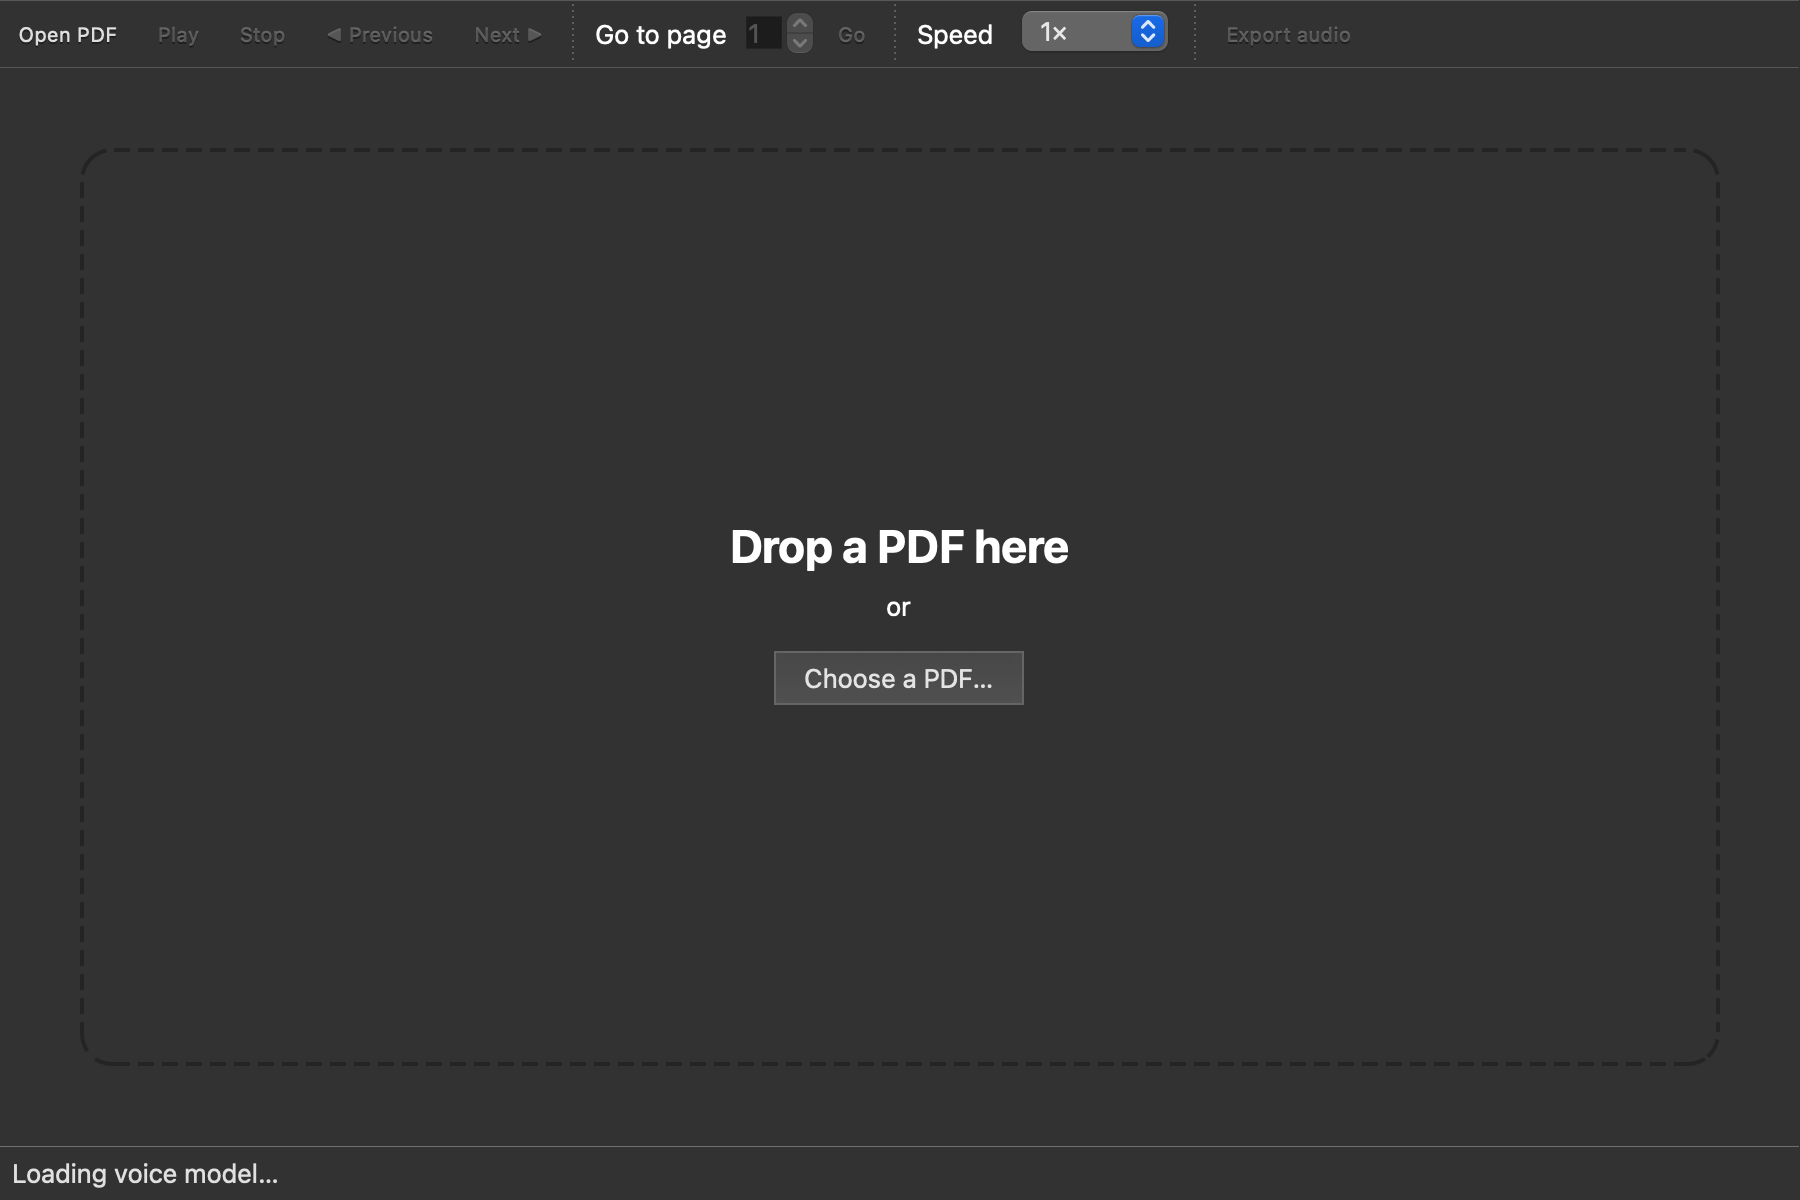
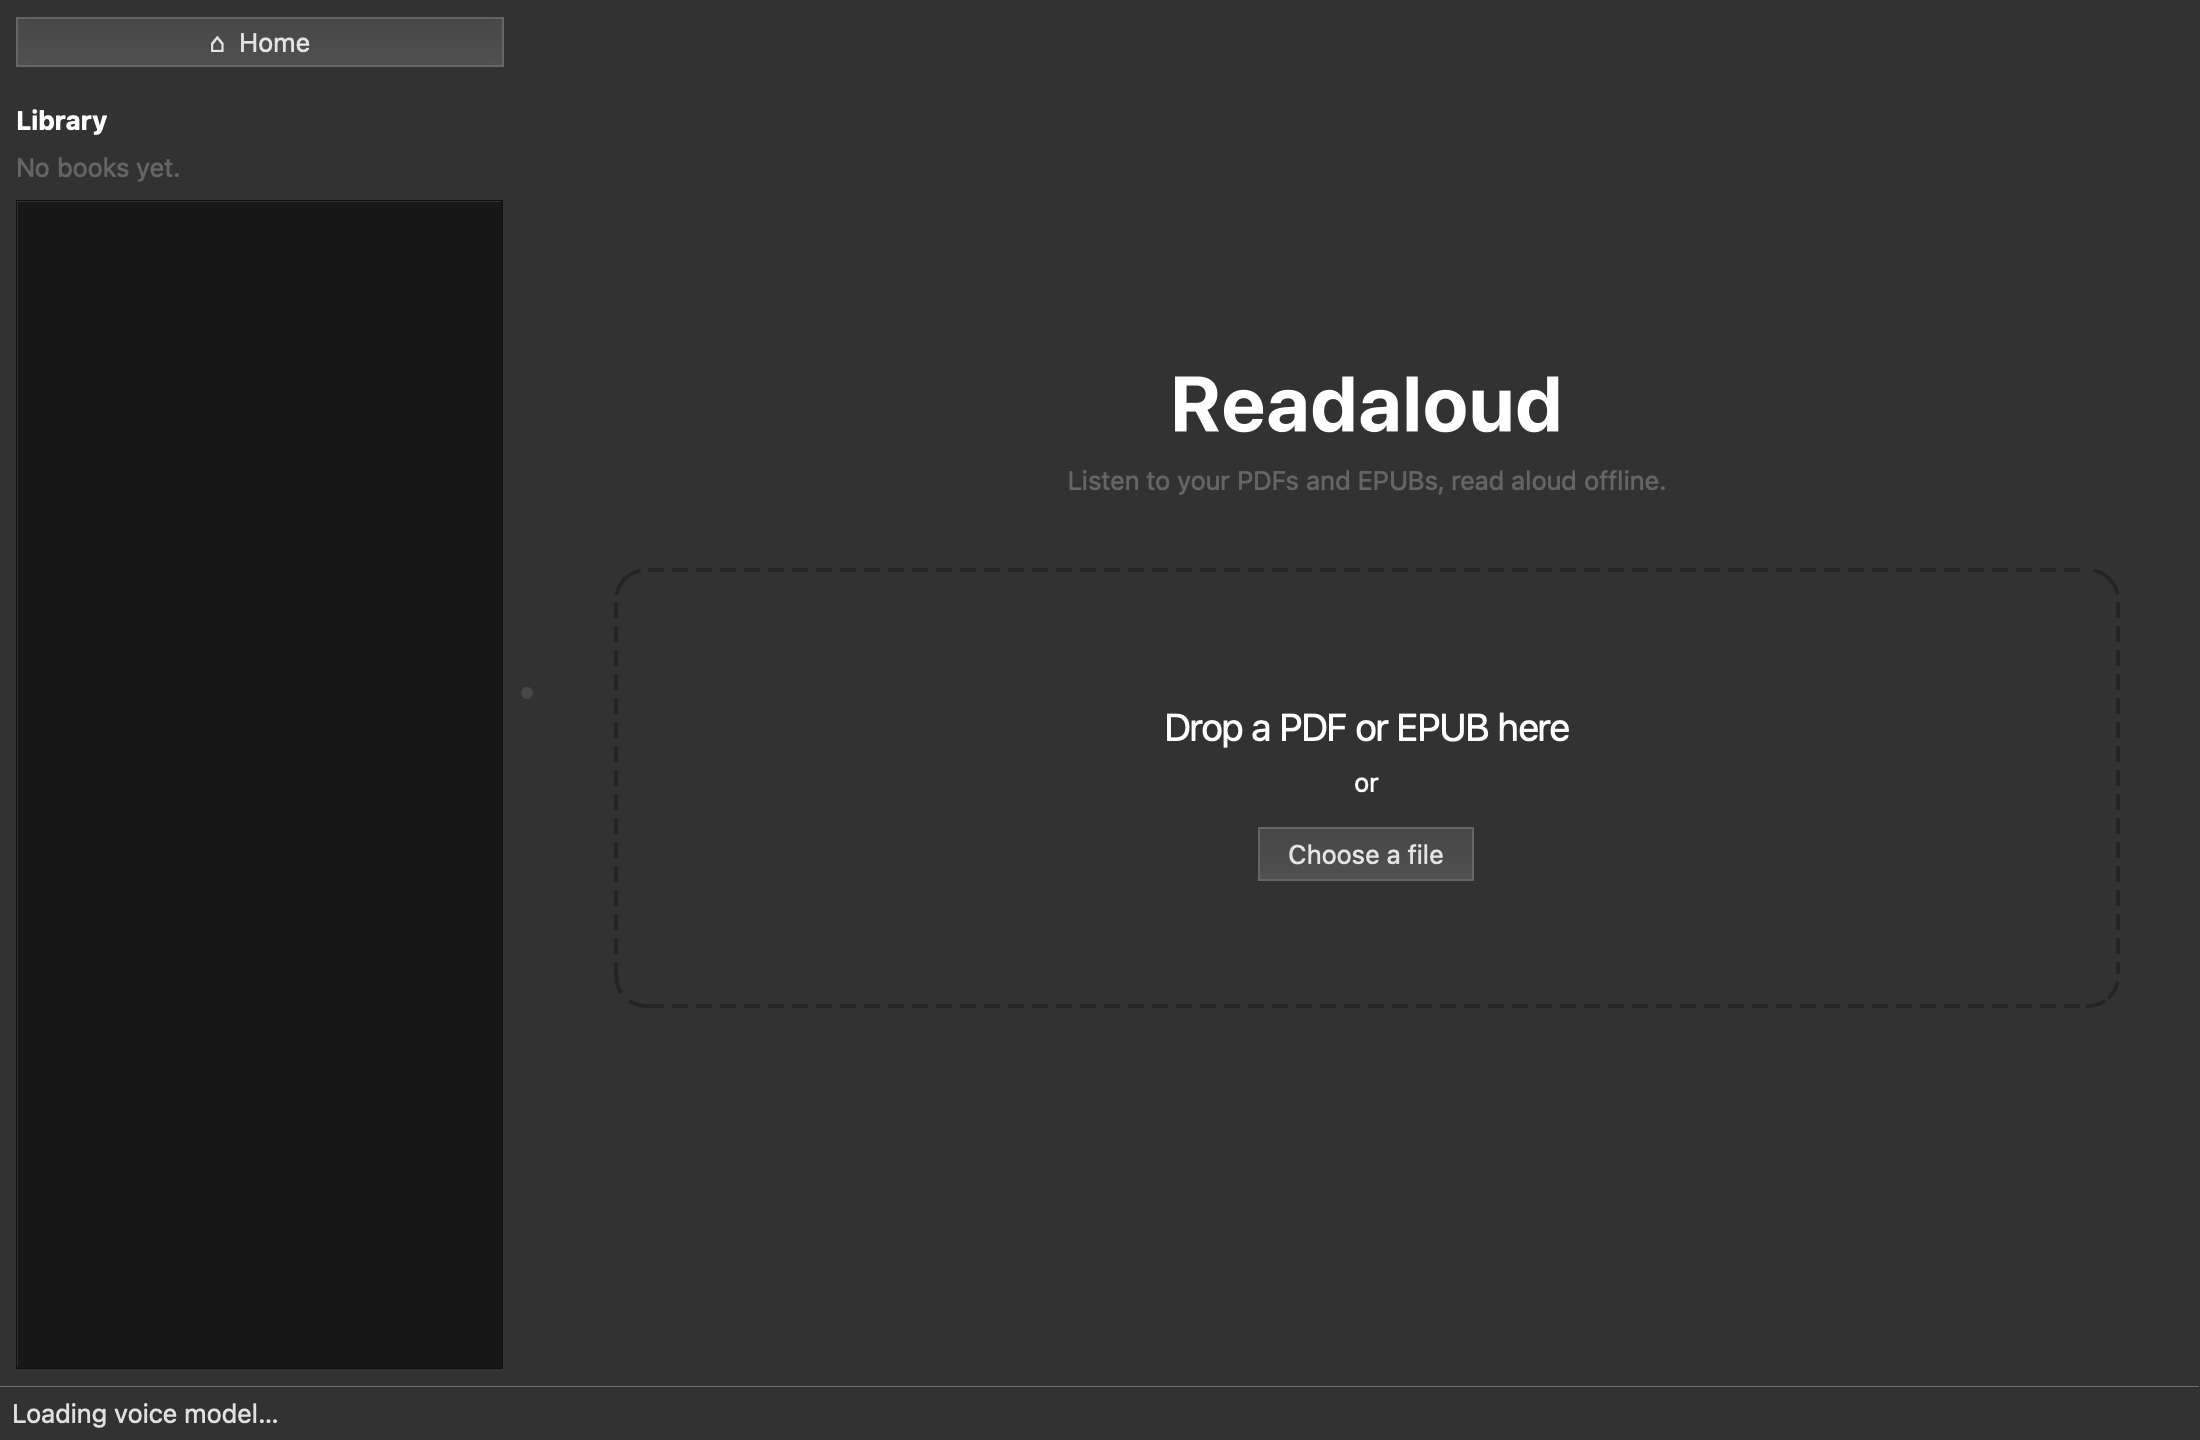
Update README for EPUB, library, home page and click-to-jump
Documents supported formats, where the library lives on each OS, the
resume-data migration and new limitations; refreshes the screenshot and
ignores SQLite library files.

diff --git a/README.md b/README.md
@@ -1,19 +1,27 @@
 # Readaloud
 
-A desktop app that reads PDFs aloud like an audiobook, using a local, offline text-to-speech engine.
+A desktop app that reads PDF and EPUB books aloud like an audiobook, using a local, offline text-to-speech engine.
 
-![Readaloud start screen](docs/screenshot.png)
+![Readaloud home page with the library sidebar](docs/screenshot.png)
 
 ## Features
 
-- **Open a PDF** by dragging it onto the window, with a file picker, or by passing a path on the command line.
-- **Clean text extraction** page by page: running headers, footers and page numbers are removed, words split across lines are rejoined, and ligatures (ﬁ, ﬂ) are expanded.
-- **Scanned pages are detected.** A page with no text layer gets a clear message and is skipped (there is no OCR).
+- **PDF and EPUB.** PDFs are read page by page. EPUBs are read chapter by chapter in spine order, with title and author taken from the book's metadata.
+- **Home page and library.** The home page shows a drop area and a **Choose a file** button. Every book you add appears in a sidebar with its progress (for example "Page 40 of 210" or "Ch 3 of 12"). Click a book to continue at the exact sentence where you stopped.
+- **Click any sentence** to stop the current audio and start reading from there. The sentence being read is highlighted and kept in view.
+- **Clean text.** PDF running headers, footers and page numbers are removed, words split across lines are rejoined, and ligatures (ﬁ, ﬂ) are expanded. EPUB navigation, scripts, styles, images and page-break markers are stripped.
+- **Careful sentence splitting** that does not break on abbreviations (Mr., Dr., e.g., i.e.), initials, decimals (3.14) or mid-sentence ellipses.
+- **Scanned pages and image-only chapters are detected** and skipped with a clear message (there is no OCR).
 - **Offline speech** with [Kokoro](https://github.com/hexgrad/kokoro), an 82M-parameter neural TTS model that runs locally.
-- **Playback controls:** play, pause, resume, stop, previous/next page, jump to a page and speed (0.5× to 2×).
-- **Follow along:** the current page number is shown and the sentence being read is highlighted.
-- **Export to MP3 or WAV** for the whole PDF or a page range. Export runs in the background with a progress bar and a cancel button, and the app stays usable meanwhile.
-- **Resume where you left off:** the last page reached is saved for each PDF, and the app offers to resume from it when you reopen the file.
+- **Playback controls:** play, pause, resume, stop, previous/next page or chapter, jump to a page or chapter, and speed (0.5× to 2×).
+- **Export to MP3 or WAV** for the whole book or a range of pages or chapters. Export runs in the background with a progress bar and a cancel button, and the app stays usable meanwhile.
+
+## Supported formats
+
+| Format | Unit | Notes |
+| --- | --- | --- |
+| PDF (`.pdf`) | Page | Needs a text layer; scanned pages are skipped. Password-protected PDFs are not supported. |
+| EPUB (`.epub`, EPUB 2 and 3) | Chapter (one per spine document) | DRM-protected EPUBs are detected and rejected with a message. Embedded-font obfuscation is fine. |
 
 ## Requirements
 
@@ -60,15 +68,17 @@ readaloud                 # or: python -m readaloud
 readaloud path/to/book.pdf
 ```
 
-The window opens on a start screen: drag a PDF onto it or click **Choose a PDF…**. The first launch takes a little longer while the voice model loads; the status bar says when it is ready.
+The window opens on the home page: drag a PDF or EPUB onto it or click **Choose a file**. The book is added to the library sidebar and opened. Click a sentence to start reading from it. The first launch takes a little longer while the voice model loads; the status bar says when it is ready.
+
+Adding a book that is already in the library (same contents, any file name) opens the existing entry. To remove a book, click its **✕** or right-click it and choose **Remove from library…**. This only removes Readaloud's copy and your reading position; your original file is never touched.
 
 Set `READALOUD_LOG_LEVEL=INFO` (or `DEBUG`) to see diagnostic logging in the terminal.
 
 | Control | Shortcut |
 | --- | --- |
-| Open PDF | Ctrl/Cmd+O |
+| Open a book | Ctrl/Cmd+O |
 | Play / Pause / Resume | Space |
-| Previous / Next page | Page Up / Page Down |
+| Previous / Next page or chapter | Page Up / Page Down |
 | Export audio | Ctrl/Cmd+E |
 
 Speed changes take effect from the next sentence.
@@ -83,16 +93,17 @@ python -m spacy download en_core_web_sm   # bundled so the app never needs pip
 pyinstaller --noconfirm packaging/readaloud.spec
 ```
 
-The app appears at `dist/Readaloud.app` (about 1 GB, mostly PyTorch). Drag it into your Applications folder, then open it and drop a PDF onto the window. The voice model is still downloaded on first launch and cached in your user folder. MP3 export uses the system `ffmpeg` (Homebrew's is found automatically).
+The app appears at `dist/Readaloud.app` (about 1 GB, mostly PyTorch). Drag it into your Applications folder, then open it and drop a PDF or EPUB onto the window. The voice model is still downloaded on first launch and cached in your user folder. MP3 export uses the system `ffmpeg` (Homebrew's is found automatically).
 
 The same spec builds a `dist/Readaloud/` folder app on Windows and Linux. That build is untested.
 
 ### Command line
 
-Synthesize a single page to a WAV file:
+Synthesize a single page (PDF) or chapter (EPUB) to a WAV file:
 
 ```bash
 readaloud-cli path/to/book.pdf --page 3 --out page3.wav --speed 1.25
+readaloud-cli path/to/book.epub --chapter 2 --out chapter2.wav
 ```
 
 ### Run the tests
@@ -101,7 +112,7 @@ readaloud-cli path/to/book.pdf --page 3 --out page3.wav --speed 1.25
 pytest
 ```
 
-The tests build their own small PDFs at runtime and use a fake TTS engine, so they run in under a second and need neither the model nor any PDF files.
+The tests build their own small PDFs and EPUBs at runtime and use a fake TTS engine and a temporary library folder, so they run in about a second and need neither the model nor any of your books.
 
 ## Project structure
 
@@ -109,15 +120,20 @@ The tests build their own small PDFs at runtime and use a fake TTS engine, so th
 readaloud/
 ├── src/readaloud/
 │   ├── __main__.py       # GUI entry point (readaloud)
-│   ├── cli.py            # single-page CLI (readaloud-cli)
-│   ├── pdf_extract.py    # PyMuPDF extraction, header/footer/page-number cleaning
-│   ├── tts.py            # Kokoro engine wrapper, sentence splitting
-│   ├── playback.py       # QAudioSink playback, background synthesis, page logic
-│   ├── export.py         # page-range logic, MP3/WAV export
-│   ├── export_dialog.py  # export range dialog and worker thread
-│   ├── state.py          # per-PDF resume positions
-│   └── gui.py            # main window (widgets and wiring only)
-├── tests/                # pytest suite; generates its own PDFs
+│   ├── cli.py            # single page/chapter CLI (readaloud-cli)
+│   ├── document.py       # shared Document/Section model, load_document()
+│   ├── pdf_extract.py    # PDF loader: PyMuPDF, header/footer/page-number cleaning
+│   ├── epub_extract.py   # EPUB loader: spine order, HTML cleaning, DRM detection
+│   ├── sentences.py      # regex sentence splitter, sentence positions
+│   ├── tts.py            # Kokoro engine wrapper
+│   ├── playback.py       # QAudioSink playback, background synthesis, reading position
+│   ├── export.py         # range logic, MP3/WAV export
+│   ├── library.py        # SQLite library, book copies, positions, migration
+│   ├── gui.py            # main window (widgets and wiring only)
+│   ├── home.py           # home page widget
+│   ├── sidebar.py        # library sidebar widget
+│   └── export_dialog.py  # export range dialog and worker thread
+├── tests/                # pytest suite; generates its own PDFs and EPUBs
 ├── packaging/            # PyInstaller spec and launcher for Readaloud.app
 ├── docs/                 # screenshot
 ├── pyproject.toml
@@ -125,24 +141,36 @@ readaloud/
 └── README.md
 ```
 
-The GUI holds no extraction or TTS logic. It calls `pdf_extract`, `playback` and `export`, which can be used and tested on their own.
+Both loaders produce the same `Document` (metadata plus numbered sections, each split into sentences), so playback, export and the library never need to know whether a book came from a PDF or an EPUB. The GUI modules hold no parsing or TTS logic.
 
 ## Where data is stored
 
-Resume positions live in your platform's user data directory (via `platformdirs`), never inside the repository:
+The library lives in your platform's user data directory (via `platformdirs`), never inside the repository:
 
-- macOS: `~/Library/Application Support/readaloud/resume_positions.json`
-- Linux: `~/.local/share/readaloud/resume_positions.json`
-- Windows: `%LOCALAPPDATA%\readaloud\resume_positions.json`
+| OS | Folder |
+| --- | --- |
+| macOS | `~/Library/Application Support/readaloud/` |
+| Linux | `~/.local/share/readaloud/` (or `$XDG_DATA_HOME/readaloud/`) |
+| Windows | `%LOCALAPPDATA%\readaloud\` |
 
-PDFs are identified by a SHA-256 hash of their contents, so the file stores no file names or paths.
+Inside it:
+
+- `library.sqlite3`: one row per book with its title, author, format, progress and reading position (page or chapter, plus sentence).
+- `books/`: Readaloud's own copy of each book, named by the SHA-256 of its contents. The library keeps working if you move or delete the original file.
+
+Only the original file *name* is stored for reference, never its folder path. To reset everything, quit the app and delete that folder.
+
+**Upgrading from an earlier version:** positions saved in the old `resume_positions.json` are imported automatically on first start. A book picks up its saved page the first time you add that same file again. The old file is left in place.
 
 ## Known limitations
 
 - **No OCR.** Scanned or image-only pages are skipped.
+- **EPUB chapters follow the book's files.** Each spine document is one chapter. Some books put several chapters in one file (or split one chapter across files), so "chapter" counts and export ranges follow the file layout, not necessarily the printed chapters.
+- **DRM-protected EPUBs** (Adobe, Apple, Kindle conversions with DRM) cannot be read.
+- **Sentence splitting is rule-based.** It handles common English abbreviations, initials, acronyms, decimals and ellipses, but an unusual abbreviation followed by a capitalised word can still split a sentence in two, or join two sentences.
 - **English only.** The app uses Kokoro's American English voice `af_heart`. Other languages and voices are not exposed in the UI.
 - **Header/footer detection is heuristic.** It removes text in the top and bottom margins that repeats on at least 30% of pages, plus bare page numbers. Unusual layouts can leave a header in or, rarely, drop a repeated line. Multi-column layouts and tables are read in PyMuPDF's block order.
-- **Paragraphs that cross a page break** are read as two pieces, with a short pause between them.
+- **Paragraphs that cross a PDF page break** are read as two pieces, with a short pause between them.
 - **Speed changes** apply from the next sentence, not mid-sentence.
 - **Synthesis speed depends on your CPU/GPU.** On slow machines there can be a short pause between sentences, and exporting a whole book can take a long time.
 - **Long exports to MP3** are converted in memory by pydub at the end, which needs RAM roughly the size of the uncompressed audio (about 170 MB per hour). WAV export streams to disk.
